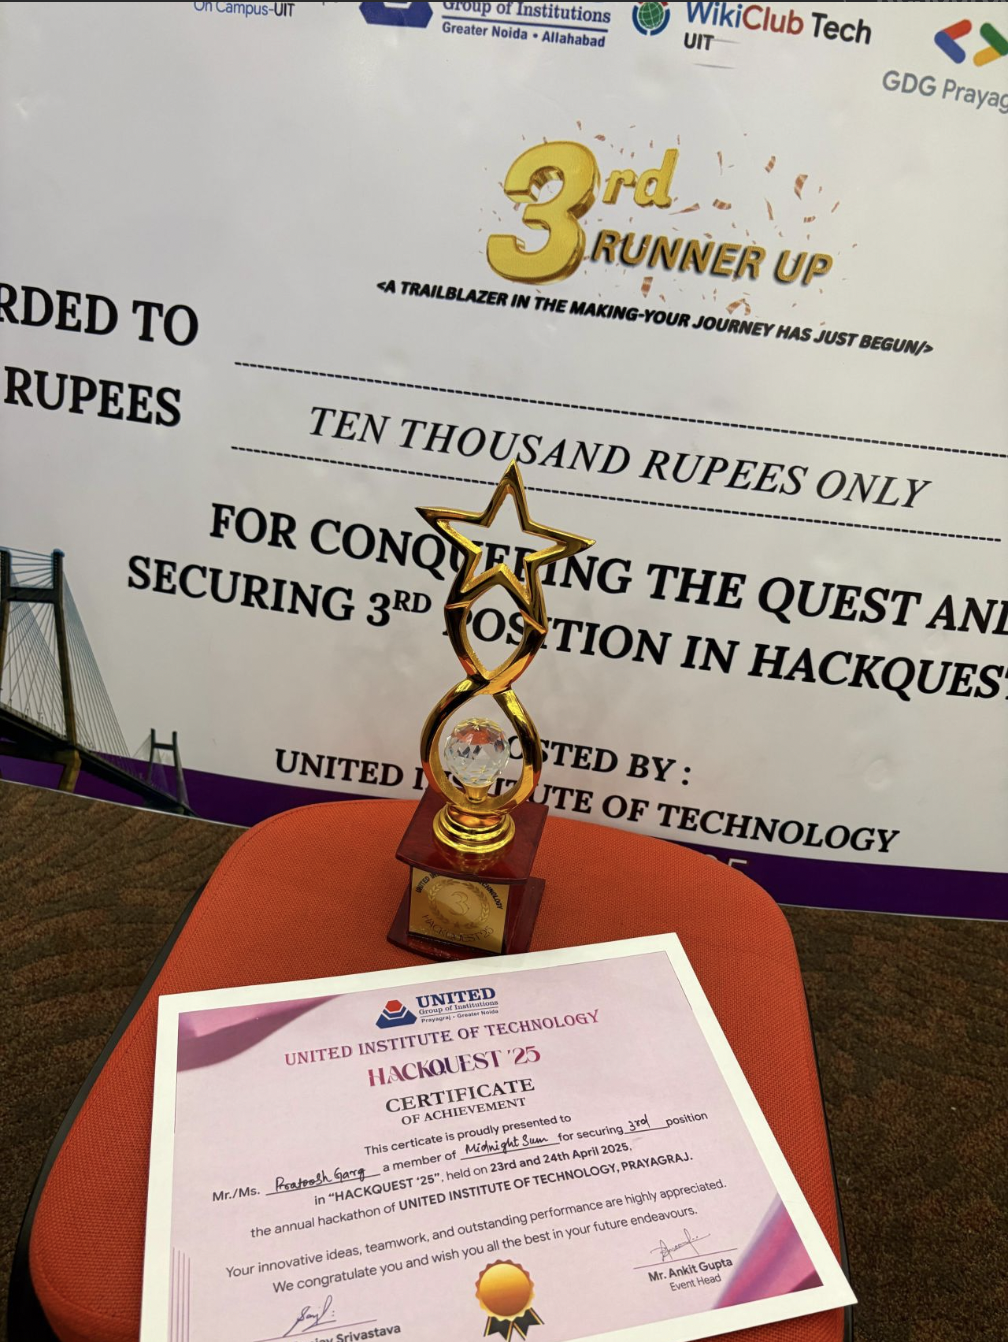
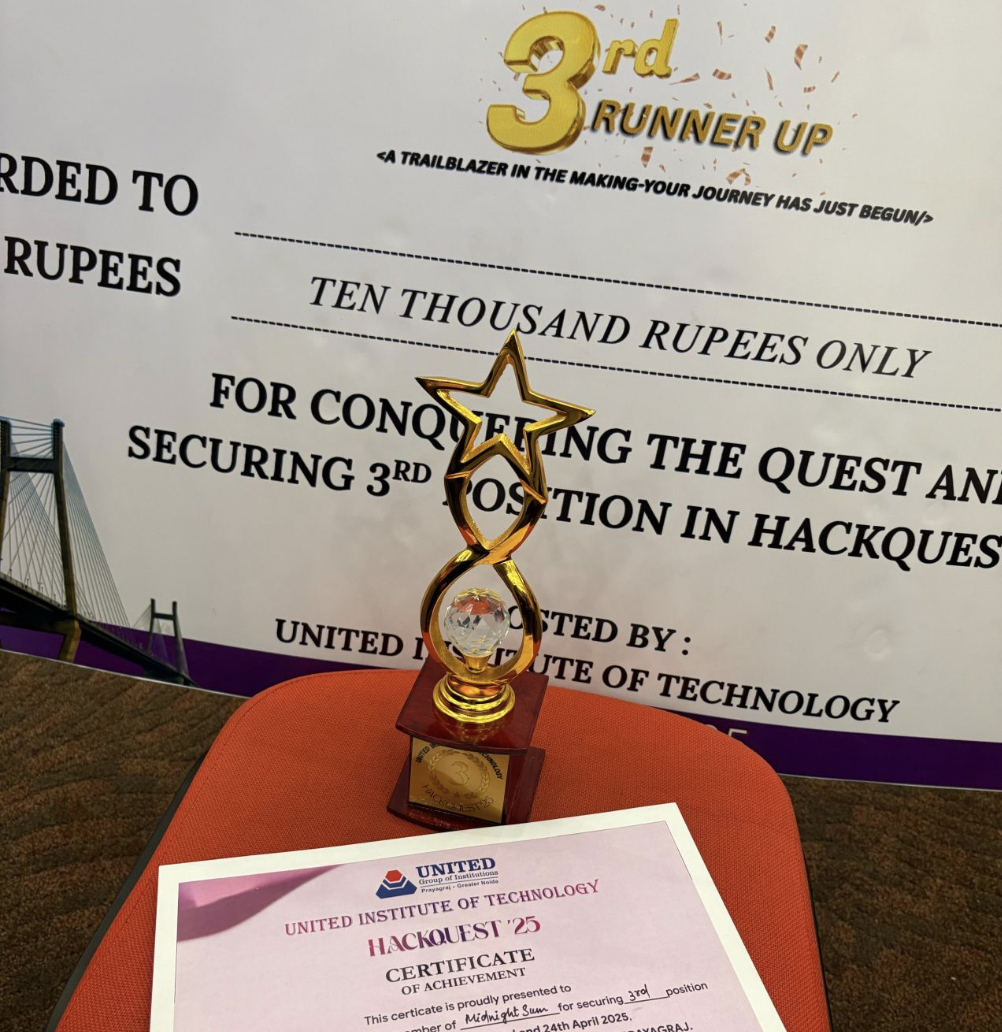
added achievements section

diff --git a/constants/achievements.ts b/constants/achievements.ts
@@ -2,48 +2,39 @@ import { Achievement } from "@/types";
 
 export const achievements: Achievement[] = [
   {
-    id: "hackathon-winner",
-    title: "Hackathon Winner",
-    category: "Competition",
-    date: "March 2024",
+    id: "uhack-runnerup",
+    title: "UHack 3.0 - Runner Up",
+    category: "Hackathon",
+    date: "Oct 2024",
     description:
-      "Won first place in the National Tech Hackathon 2024 for developing an innovative AI-powered road monitoring system. The project impressed judges with its real-world application and technical excellence, competing against 200+ teams from across the country.",
+      "Secured 2nd place in the UHack 3.0 Hackathon held at United College of Engineering and Research, Prayagraj. Developed an AI-powered Kumbh Mela crowd management system that focused on real-time monitoring and emergency response capabilities.",
     image: "/achievements/uhack.png",
   },
   {
-    id: "certification-aws",
-    title: "AWS Certified Developer",
-    category: "Certification",
-    date: "January 2024",
+    id: "hackquest-roadlens",
+    title: "HackQuest - 3rd Prize",
+    category: "Hackathon",
+    date: "May 2025",
     description:
-      "Successfully obtained AWS Certified Developer - Associate certification, demonstrating proficiency in developing and maintaining applications on the Amazon Web Services platform. This certification validates expertise in core AWS services, security, and deployment best practices.",
-    image: "/placeholder.svg?height=300&width=400",
+      "Won 3rd prize at HackQuest Hackathon organized by United Institute of Technology, Prayagraj. Developed 'RoadLens', a smart traffic monitoring and violation detection application leveraging AI and computer vision.",
+    image: "/achievements/hackquest.png",
   },
   {
-    id: "open-source",
-    title: "Open Source Contributor",
-    category: "Community",
+    id: "conference-paper",
+    title: "Conference Paper - Google Scholar",
+    category: "Research",
     date: "Ongoing",
     description:
-      "Active contributor to various open-source projects with over 50+ contributions to popular repositories. Maintained several npm packages and helped improve documentation for React-based libraries, contributing to the developer community.",
-    image: "/placeholder.svg?height=300&width=400",
+      "Conference paper accepted at Galgotias University, contributing to the Google Scholar repository. The paper highlights innovative approaches in software engineering and real-world AI integrations.",
+    image: "/achievements/paper.png",
   },
   {
-    id: "academic-excellence",
-    title: "Academic Excellence",
-    category: "Education",
+    id: "rm-coding-winner",
+    title: "RM Coding Competition - Winner",
+    category: "Competition",
     date: "2023",
     description:
-      "Graduated with distinction in Computer Science Engineering with a CGPA of 8.7/10. Received the Dean's List recognition for academic excellence and was awarded the Best Student Project award for the final year capstone project.",
-    image: "/placeholder.svg?height=300&width=400",
-  },
-  {
-    id: "coding-contest",
-    title: "Coding Contest Champion",
-    category: "Competition",
-    date: "September 2023",
-    description:
-      "Secured top 10 position in multiple national-level coding competitions including CodeChef Cook-Off and Codeforces contests. Consistently maintained a 4-star rating on CodeChef and achieved Expert level on Codeforces platform.",
-    image: "/placeholder.svg?height=300&width=400",
-  },
+      "Secured 1st position in the RM Coding Competition organized by United Institute of Technology. Outperformed peers in algorithmic and problem-solving rounds, showcasing strong coding fundamentals.",
+    image: "/achievements/aarambh.png",
+  }
 ];

diff --git a/components/Achievements.tsx b/components/Achievements.tsx
@@ -48,12 +48,12 @@ export function Achievements() {
 
         <div className="flex-1 overflow-y-auto p-4" style={{ backgroundColor: "#1d1f20" }}>
           <div className="space-y-4">
-            <div className="w-full">
+            <div className="w-full flex justify-center">
               <Image
                 height={1000} width={1000}
                 src={selectedAchievement.image || "/placeholder.svg"}
                 alt={selectedAchievement.title}
-                className="w-full h-64 object-cover rounded-lg shadow-lg"
+                className="w-[450px] h-[400px] object-cover rounded-lg shadow-lg"
               />
             </div>
 
